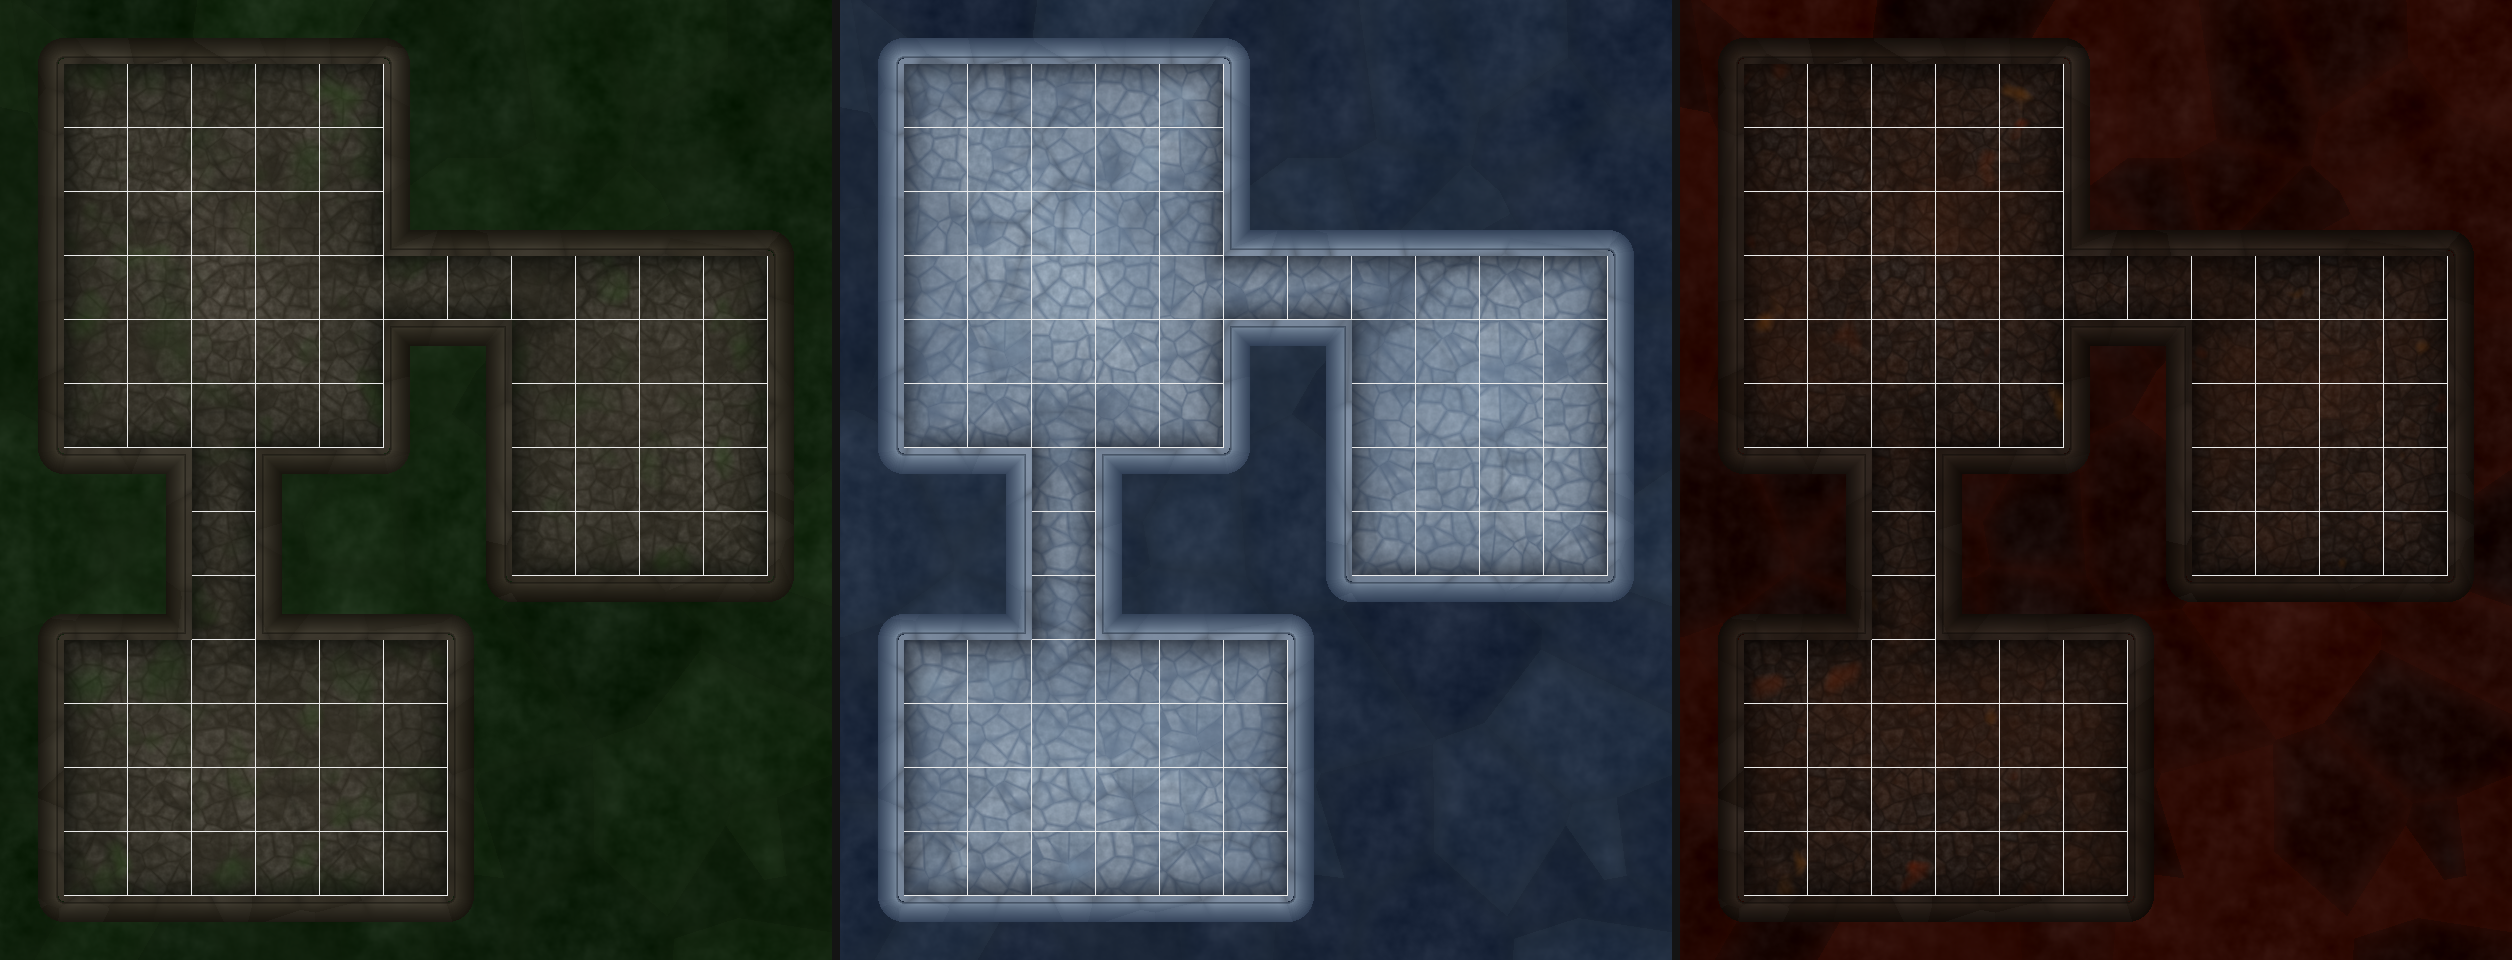
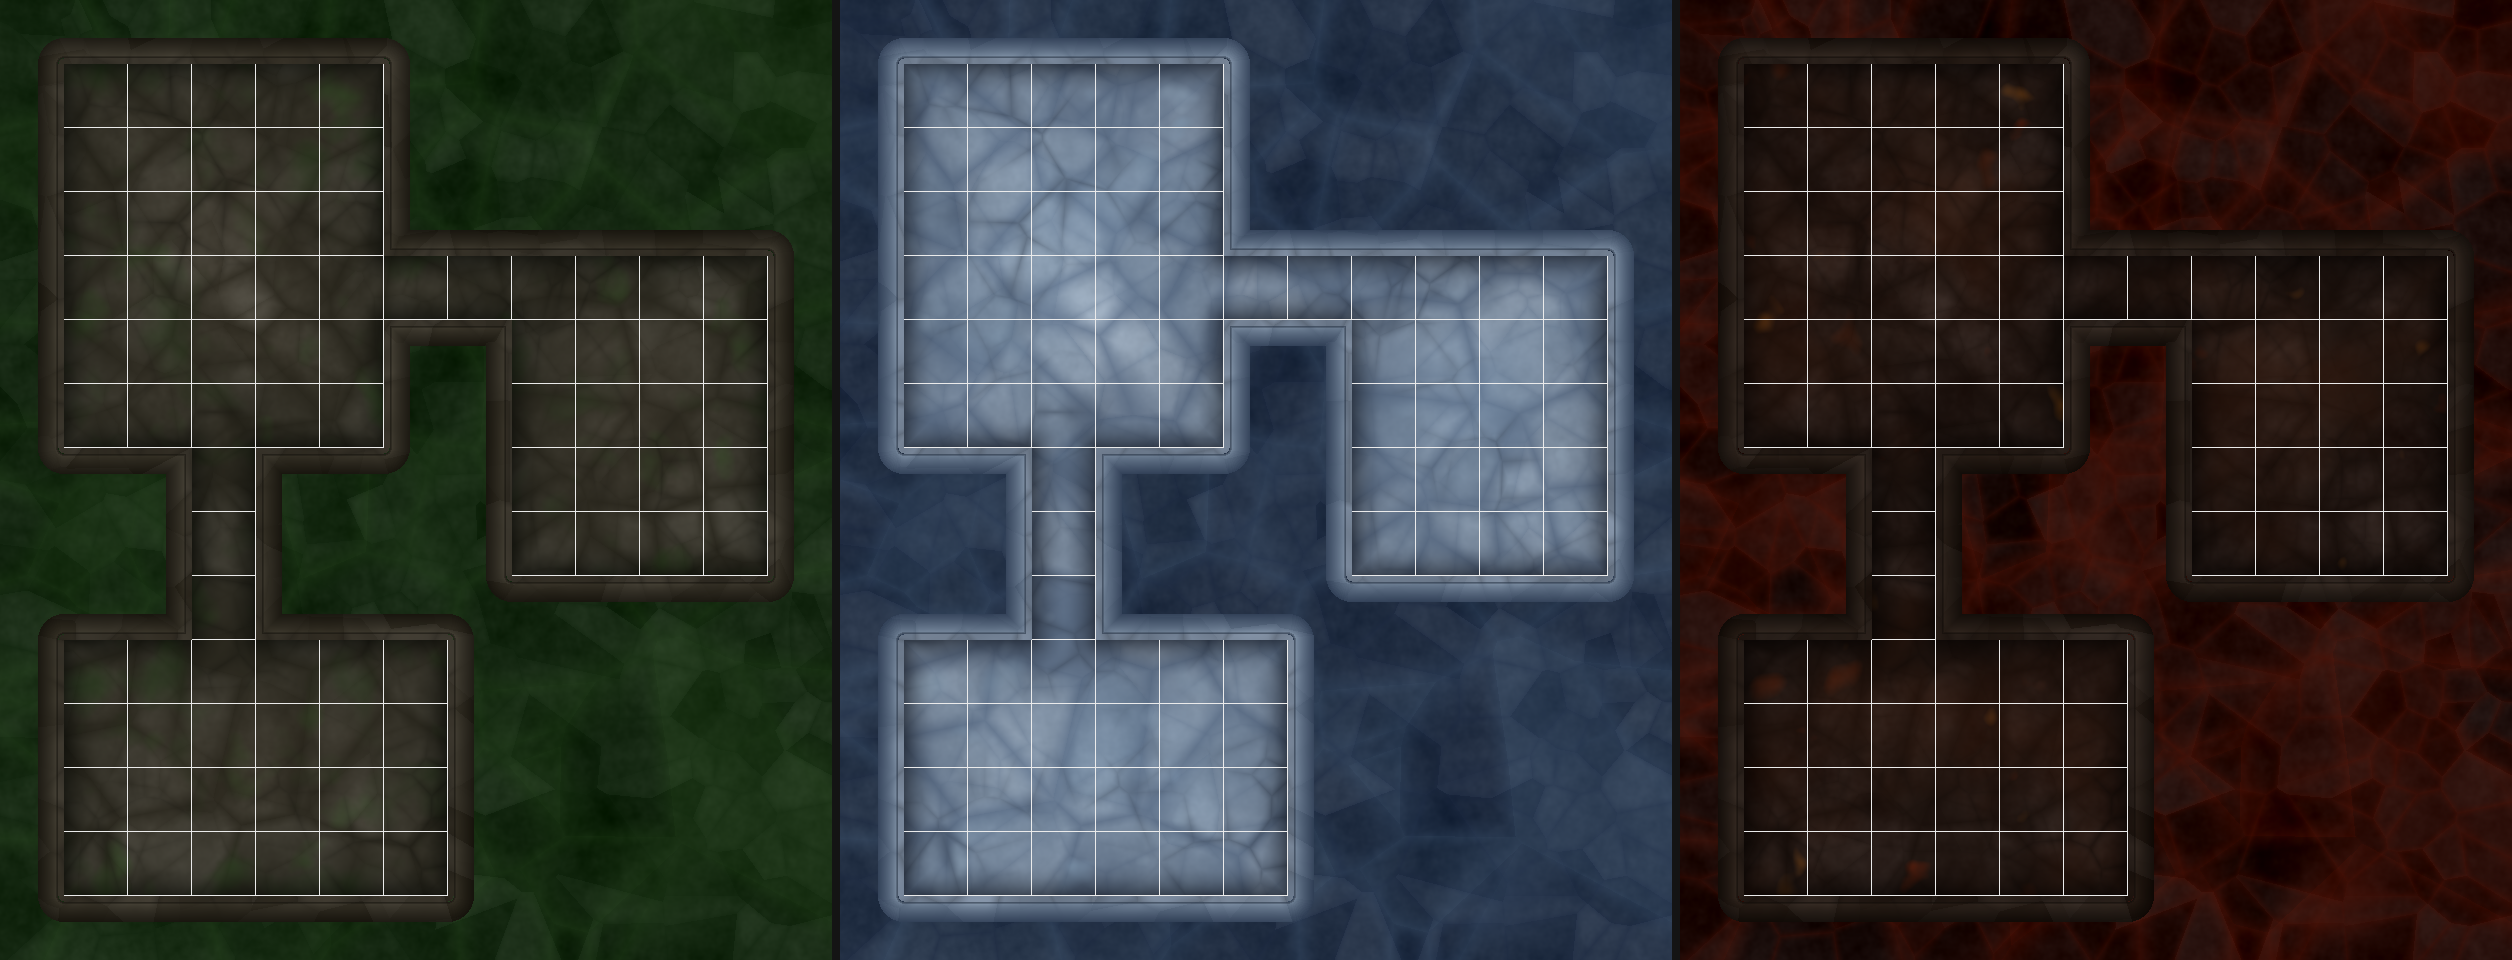
Continuous floors, dense exterior textures, richer wall stone
- Replace tile-stamped floors with continuous multi-scale Voronoi:
  large flagstones + medium blocks + fine surface noise. No tile
  boundaries or duplicate tile issues.
- Exterior uses dense dual-Voronoi with multi-scale noise for
  terrain-like complexity instead of blurry clouds.
- Wall stone texture uses two Voronoi scales for more visible
  block structure and deeper mortar lines.
- Moss/overlay layers now blend seamlessly since base floor is
  also continuous.

diff --git a/tools/texgen/preview.py b/tools/texgen/preview.py
@@ -212,27 +212,51 @@ THEMES = {
 
 
 # ---------------------------------------------------------------------------
-# Floor stamping
+# Continuous floor rendering (no tile stamping)
 # ---------------------------------------------------------------------------
 
-def stamp_floors(canvas_arr, pack_dir):
-    print("    Floor tiles...", end='', flush=True)
-    floors = []
-    for i in range(16):
-        p = pack_dir / 'floors' / f'base_{i}.png'
-        if p.exists():
-            img = Image.open(p).convert('RGBA').resize((TILE, TILE))
-            floors.append(np.array(img, dtype=np.float64))
-    if not floors:
-        print(" no tiles found")
-        return
-    rng = np.random.RandomState(42)
-    for r in range(ROWS):
-        for c in range(COLS):
-            if LAYOUT[r, c] != 1:
-                continue
-            tile = floors[rng.randint(len(floors))]
-            canvas_arr[r*TILE:(r+1)*TILE, c*TILE:(c+1)*TILE] = tile
+def render_continuous_floor(canvas_arr, floor_mask, theme):
+    """
+    Generate floor as one continuous image using multiple overlapping
+    Voronoi patterns at different scales for visual richness:
+    - Large flagstones (low density Voronoi)
+    - Medium block detail (higher density)
+    - Fine surface noise (fbm)
+    No tile boundaries, no duplicate tile problem.
+    """
+    print("    Floor (continuous)...", end='', flush=True)
+    base = np.array(theme['floor_base'], dtype=np.float64)
+    accent = np.array(theme['floor_accent'], dtype=np.float64)
+    mortar = np.array(theme['mortar'], dtype=np.float64)
+    contrast = theme['contrast']
+
+    # Large flagstones
+    cells_lg, edges_lg = continuous_voronoi(PX_H, PX_W, density=theme['stone_density'], seed=42)
+    # Medium blocks (higher density, different seed)
+    cells_md, edges_md = continuous_voronoi(PX_H, PX_W, density=theme['stone_density'] * 2.5, seed=43)
+    # Surface noise at multiple scales
+    surface_lg = continuous_noise(PX_H, PX_W, scale=0.8, octaves=4, seed=100)
+    surface_fine = continuous_noise(PX_H, PX_W, scale=3.0, octaves=3, seed=101)
+    surface_micro = continuous_noise(PX_H, PX_W, scale=8.0, octaves=2, seed=102)
+
+    # Blend cell values from both scales
+    cells = cells_lg * 0.6 + cells_md * 0.4
+
+    for c in range(3):
+        # Base color from blended cell values
+        color = base[c] * cells + accent[c] * (1 - cells)
+        # Multi-scale surface variation
+        color += (surface_lg - 0.5) * contrast * 0.6
+        color += (surface_fine - 0.5) * contrast * 0.3
+        color += (surface_micro - 0.5) * contrast * 0.15
+        # Large flagstone mortar lines (thick, prominent)
+        mortar_lg = np.clip(1.0 - edges_lg * 3.5, 0, 1) ** 1.5
+        color = color * (1 - mortar_lg * 0.65) + mortar[c] * mortar_lg * 0.65
+        # Medium block mortar (thinner, subtler)
+        mortar_md = np.clip(1.0 - edges_md * 5.0, 0, 1) ** 2.0
+        color = color * (1 - mortar_md * 0.25) + mortar[c] * mortar_md * 0.25
+        canvas_arr[:, :, c] = np.where(floor_mask, np.clip(color, 0, 255), canvas_arr[:, :, c])
+    canvas_arr[:, :, 3] = np.where(floor_mask, 255, canvas_arr[:, :, 3])
     print(" done")
 
 
@@ -310,28 +334,40 @@ def render_radial_lighting(canvas_arr, floor_mask, inner_dist, theme):
 
 
 def render_exterior(canvas_arr, floor_mask, theme):
-    """Exterior with Voronoi stone/terrain pattern for more visual interest."""
-    # Voronoi cells for structure
-    cells, edges = continuous_voronoi(PX_H, PX_W, density=0.4, seed=600)
-    # Noise for organic variation
-    n1 = continuous_noise(PX_H, PX_W, scale=0.8, octaves=4, seed=601)
-    n2 = continuous_noise(PX_H, PX_W, scale=4.0, octaves=3, seed=602)
+    """
+    Exterior with dense, fine-grained texture.
+    Multiple Voronoi scales for terrain-like complexity.
+    Higher contrast and more detail than before.
+    """
+    # Small-scale Voronoi for dense terrain texture (rocks, foliage, etc.)
+    cells_sm, edges_sm = continuous_voronoi(PX_H, PX_W, density=2.0, seed=600)
+    # Medium-scale for larger features
+    cells_md, edges_md = continuous_voronoi(PX_H, PX_W, density=0.5, seed=601)
+    # Multi-scale noise
+    n_coarse = continuous_noise(PX_H, PX_W, scale=0.6, octaves=4, seed=602)
+    n_fine = continuous_noise(PX_H, PX_W, scale=3.0, octaves=3, seed=603)
+    n_micro = continuous_noise(PX_H, PX_W, scale=8.0, octaves=2, seed=604)
 
     base = np.array(theme['exterior'], dtype=np.float64)
     accent = np.array(theme['exterior_accent'], dtype=np.float64)
     detail = np.array(theme['exterior_detail'], dtype=np.float64)
     void_mask = ~floor_mask
 
-    # Base color from cell values
     for c in range(3):
-        cell_color = base[c] * cells + accent[c] * (1 - cells)
-        # Add noise variation
-        variation = (n1 - 0.5) * 25 + (n2 - 0.5) * 12
-        # Darken Voronoi edges (mortar/crevice lines)
-        edge_darken = np.clip(1.0 - edges * 3.0, 0, 1) ** 1.5
-        color = cell_color + variation
-        # Blend in detail color at edges
-        color = color * (1 - edge_darken * 0.5) + detail[c] * 0.3 * edge_darken
+        # Blend base/accent at medium scale
+        color = base[c] * (0.4 + 0.6 * cells_md) + accent[c] * (0.6 - 0.6 * cells_md)
+        # Small-scale cell variation (the fine texture)
+        color += (cells_sm - 0.5) * 20
+        # Multi-scale noise
+        color += (n_coarse - 0.5) * 18
+        color += (n_fine - 0.5) * 12
+        color += (n_micro - 0.5) * 6
+        # Small Voronoi edges as dark crevice lines
+        edge_dark_sm = np.clip(1.0 - edges_sm * 5.0, 0, 1) ** 2.0
+        color = color * (1 - edge_dark_sm * 0.4) + accent[c] * 0.5 * edge_dark_sm
+        # Medium Voronoi edges as broader dark lines
+        edge_dark_md = np.clip(1.0 - edges_md * 3.0, 0, 1) ** 1.5
+        color = color * (1 - edge_dark_md * 0.3) + detail[c] * 0.4 * edge_dark_md
         canvas_arr[:, :, c] = np.where(void_mask, np.clip(color, 0, 255), canvas_arr[:, :, c])
     canvas_arr[:, :, 3] = 255
 
@@ -359,11 +395,14 @@ def render_walls(canvas_arr, floor_mask, theme):
     face_lit = np.array(theme['wall_face_lit'], dtype=np.float64)
     face_dark = np.array(theme['wall_face_dark'], dtype=np.float64)
 
-    # --- Voronoi stone texture for walls ---
+    # --- Voronoi stone texture for walls (higher density, more contrast) ---
     print("    Wall stone texture...", end='', flush=True)
-    wall_cells, wall_edges = continuous_voronoi(PX_H, PX_W, density=1.2, seed=700)
-    wall_stone_var = (wall_cells - 0.5) * 18
-    wall_mortar = np.clip(1.0 - wall_edges * 4.5, 0, 1) ** 1.5
+    wall_cells, wall_edges = continuous_voronoi(PX_H, PX_W, density=2.0, seed=700)
+    wall_cells2, wall_edges2 = continuous_voronoi(PX_H, PX_W, density=0.6, seed=701)
+    wall_stone_var = (wall_cells - 0.5) * 22 + (wall_cells2 - 0.5) * 10
+    wall_mortar = np.clip(1.0 - wall_edges * 4.0, 0, 1) ** 1.5
+    wall_mortar2 = np.clip(1.0 - wall_edges2 * 3.0, 0, 1) ** 1.5
+    wall_mortar = np.maximum(wall_mortar, wall_mortar2 * 0.6)  # combine both scales
     print(" done")
 
     # Total wall extent into void = border + face
@@ -440,7 +479,7 @@ def render_grid(canvas, floor_mask_arr):
 # Main
 # ---------------------------------------------------------------------------
 
-def render_preview(theme_name, pack_dir, output_path):
+def render_preview(theme_name, output_path):
     theme = THEMES[theme_name]
     print(f"\n  {theme['name']}:")
 
@@ -453,7 +492,7 @@ def render_preview(theme_name, pack_dir, output_path):
     render_exterior(canvas_arr, floor_mask, theme)
     print(" done")
 
-    stamp_floors(canvas_arr, pack_dir)
+    render_continuous_floor(canvas_arr, floor_mask, theme)
 
     print("    Overlays...", end='', flush=True)
     render_overlays(canvas_arr, floor_mask, inner_dist, theme)
@@ -499,8 +538,7 @@ def main():
 
     previews = []
     for name in themes:
-        pack = packs_dir / name
-        img = render_preview(name, pack, preview_dir / f'{name}_preview.png')
+        img = render_preview(name, preview_dir / f'{name}_preview.png')
         previews.append(img)
 
     if previews:
